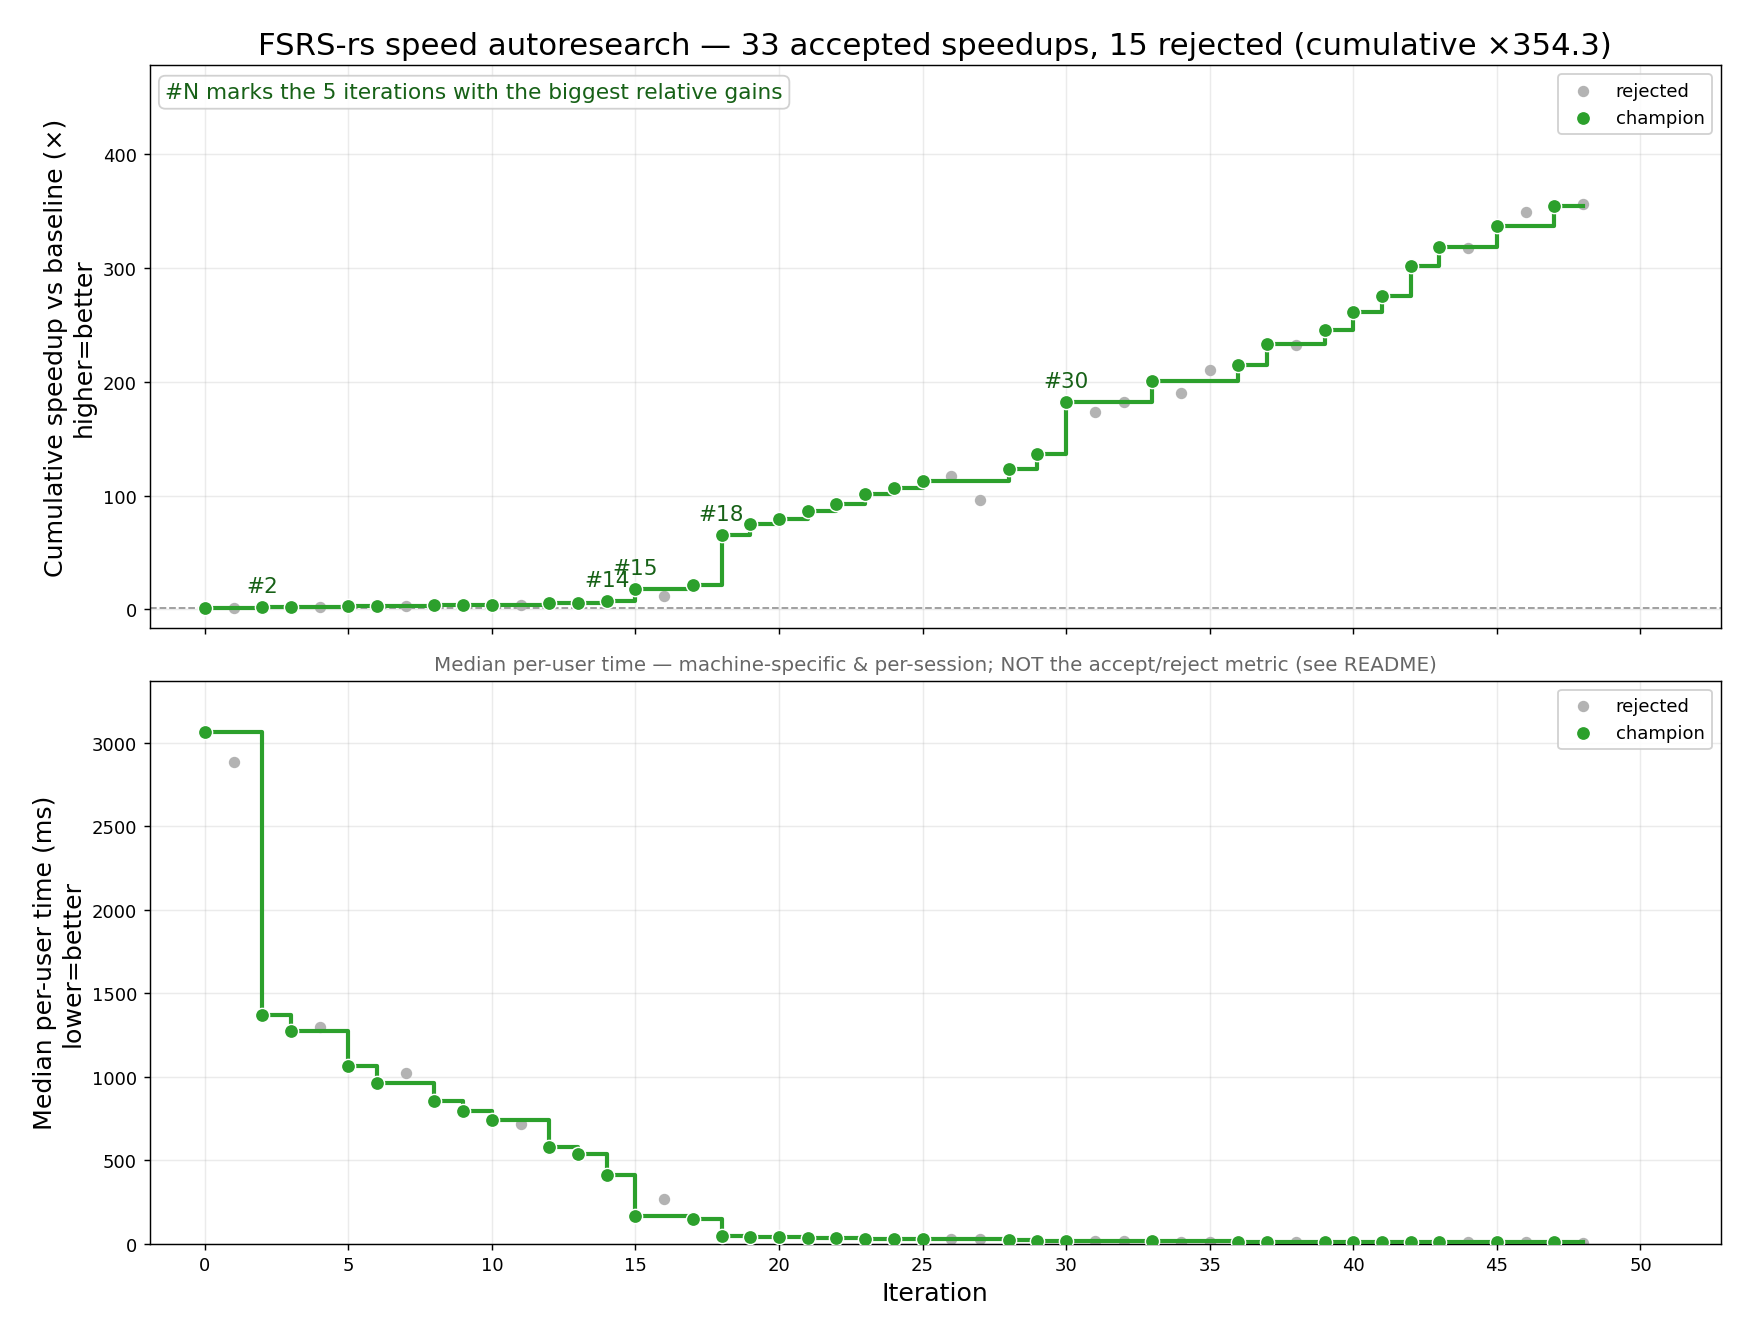
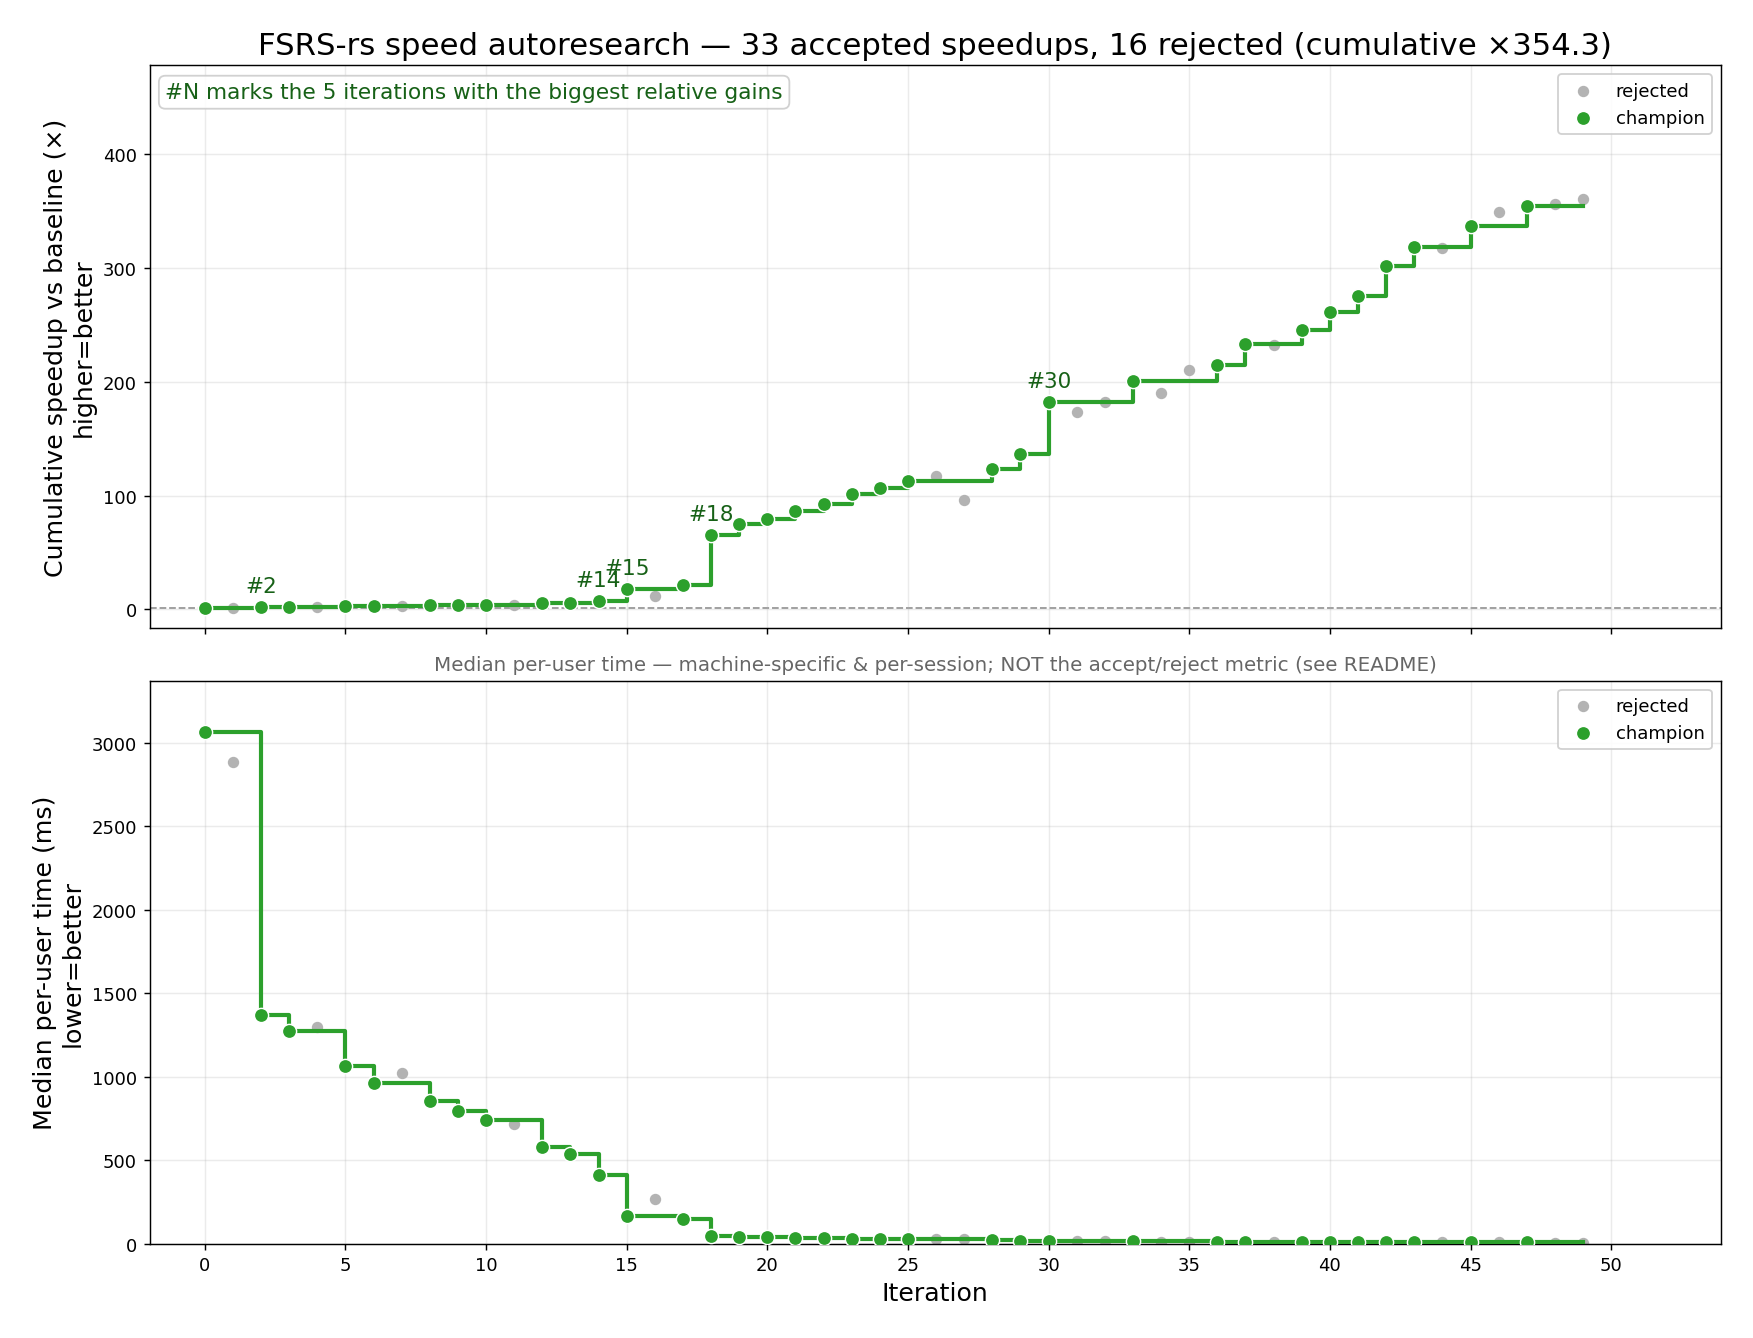
iter49 REJECTED (x1.018, kept for stacking): stab backward and curve forward reordered so values die early
Bit-for-bit (0/50), n=1 x1.017 vs the iter47 champion (with iter48's 4-lane
tail groups).

diff --git a/fsrs-rs/src/kernel_simd.rs b/fsrs-rs/src/kernel_simd.rs
@@ -171,6 +171,18 @@ pub(super) fn curve8_fwd_into<const FAST: bool>(
     let a = t / sf;
     c.a = a;
     let bv = t / s;
+    // iter-165: decay2 no longer d-modulated (m2 = w24 plain); ex34 = exp((d-5)*(d_decay-0.3))
+    // is now the TIME-SCALE inside b2.
+    let ex34 = exp2_8_in_range::<FAST>((d - k(5.0)) * k(wc.w32m_l));
+    // decay2 / p28 = base2[w26]^inv2 / factor2 are weight-only: hoisted into wc.
+    let q2 = bv * F::splat(wc.factor2) * ex34;
+    c.q2 = q2;
+    let b2 = q2 + k(1.0);
+    c.b2 = b2;
+    let ln_b2 = log2_8(b2);
+    c.ln_b2 = ln_b2;
+    let r2 = exp2_8_in_range::<FAST>(F::splat(wc.decay2) * ln_b2);
+    c.r2 = r2;
     // 34-param remap + all-positive offsets: p35=s_short^(s_decay1[w33]-0.3), m1=decay1[w23]*p35,
     // ex34=exp((d-5)*(d_decay[w32]-0.3)), m2=decay2[w24]*ex34, p28=base2[w26]^inv2,
     // p31=s_short^-s_weight_power1[w29], weight1=base_weight1[w27]*p31. ln_w27=ln(base1=w25),
@@ -194,18 +206,6 @@ pub(super) fn curve8_fwd_into<const FAST: bool>(
     c.ln_b1 = ln_b1;
     let r1 = exp2_8_in_range::<FAST>(decay1 * ln_b1);
     c.r1 = r1;
-    // iter-165: decay2 no longer d-modulated (m2 = w24 plain); ex34 = exp((d-5)*(d_decay-0.3))
-    // is now the TIME-SCALE inside b2.
-    let ex34 = exp2_8_in_range::<FAST>((d - k(5.0)) * k(wc.w32m_l));
-    // decay2 / p28 = base2[w26]^inv2 / factor2 are weight-only: hoisted into wc.
-    let q2 = bv * F::splat(wc.factor2) * ex34;
-    c.q2 = q2;
-    let b2 = q2 + k(1.0);
-    c.b2 = b2;
-    let ln_b2 = log2_8(b2);
-    c.ln_b2 = ln_b2;
-    let r2 = exp2_8_in_range::<FAST>(F::splat(wc.decay2) * ln_b2);
-    c.r2 = r2;
     // ret = (weight1*r1 + weight2*r2) / (weight1 + weight2), weight1 = base_weight1[w27] *
     // sf^-s_weight_power1[w29], weight2 = base_weight2[w28] * s^s_weight_power2[w30] *
     // exp((d_weight[w31]-0.5)(d-5)). Written as r1*(1-sig) + r2*sig with sig = sigmoid(z) and
@@ -422,25 +422,25 @@ pub(super) fn stab8_bwd(
     // sinc = aa*bb*cc*(expr-1)*hard*easy + 1
     let em1 = c.em1;
     let g_prod = g_sinc;
-    let base = c.base;
+    // (Ordered so each adjoint is used up soon after it is formed; see curve8_bwd_acc.)
+    let g_he = g_prod * he;
+    // expr = exp((1-r)*w[start+2])
+    let g_em1 = g_he * c.abc;
+    let mut g_r = g_em1 * c.expr * k(-w[start + 2]);
+    gw[start + 2] += g_em1 * c.expr * (one - r);
+    let g_bb = g_he * (aa * c.cc * em1);
+    let g_last_d = g_bb * (z - one); // bb = 11 - last_d (the ONLY D-dependence of stab now)
     // d(prod)/d(hard_penalty) on rating-2 lanes and d(prod)/d(easy_bonus) on rating-4 lanes are
     // both `base` (the other factor is exactly 1 there).
-    let g_base = g_prod * base;
+    let g_base = g_prod * c.base;
+    gw[start + 6] += rating.cmp_eq(k(2.0)).blend(g_base, z); // hard_penalty
+    gw[start + 7] += rating.cmp_eq(k(4.0)).blend(g_base, z); // easy_bonus
     // prod = base * he is a product, so the adjoint of ln(aa) and of ln(cc) are both g_prod * prod.
     let p_ln = g_base * he;
     gw[start] += p_ln; // aa = exp(w[start]-1.5)
-    let g_he = g_prod * he;
-    let g_bb = g_he * (aa * c.cc * em1);
-    let g_em1 = g_he * c.abc;
-    gw[start + 6] += rating.cmp_eq(k(2.0)).blend(g_base, z); // hard_penalty
-    gw[start + 7] += rating.cmp_eq(k(4.0)).blend(g_base, z); // easy_bonus
-    let g_last_d = g_bb * (z - one); // bb = 11 - last_d (the ONLY D-dependence of stab now)
     // cc = last_s^-w[start+1] = exp(-w[start+1] * ln_ls)
     g_last_s += p_ln * k(-w[start + 1]) / last_s;
     gw[start + 1] -= p_ln * ln_ls;
-    // expr = exp((1-r)*w[start+2])
-    let mut g_r = g_em1 * c.expr * k(-w[start + 2]);
-    gw[start + 2] += g_em1 * c.expr * (one - r);
     if !c.full {
         return (g_last_s, g_last_d, g_r);
     }

diff --git a/result/history.md b/result/history.md
@@ -53,6 +53,7 @@ Accept metric: **median per-user speed_ratio ≥ 1.05** (constraint 12) AND **sp
 | 46 | 8 | 8 | 1.035 | 11169 | 11213 | 1.004 | 1.010 | ✓ | rejected | Cache cheap forward values for the backward; backward ordered so values die early |
 | 47 | 7 | 7 | 1.051 | 11169 | 11258 | 1.008 | 1.020 | ✓ | accepted | iter46 stack plus: no padding mask on lapse-free steps, leaner plan, transposed lane sums |
 | 48 | 7 | 6 | 1.006 | 11258 | 11317 | 1.005 | 1.013 | ✓ | rejected | Batch's last card group with at most 4 cards runs on a 4-lane kernel |
+| 49 | 7 | 7 | 1.018 | 11258 | 11317 | 1.005 | 1.013 | ✓ | rejected | iter48 plus stab backward and curve forward reordered so values die early |
 
 **Cumulative speed_ratio (product of accepted): ×354.263** — upward-biased (winner's curse); anchor periodically vs iter-0 baseline.
 
